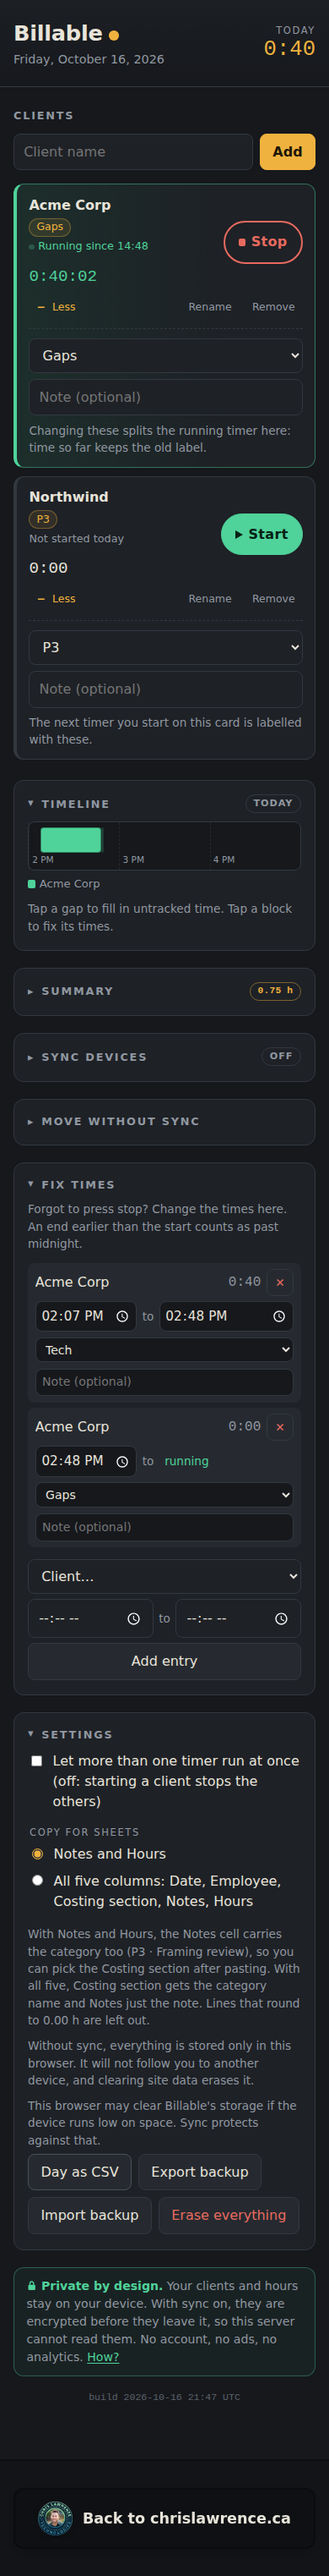
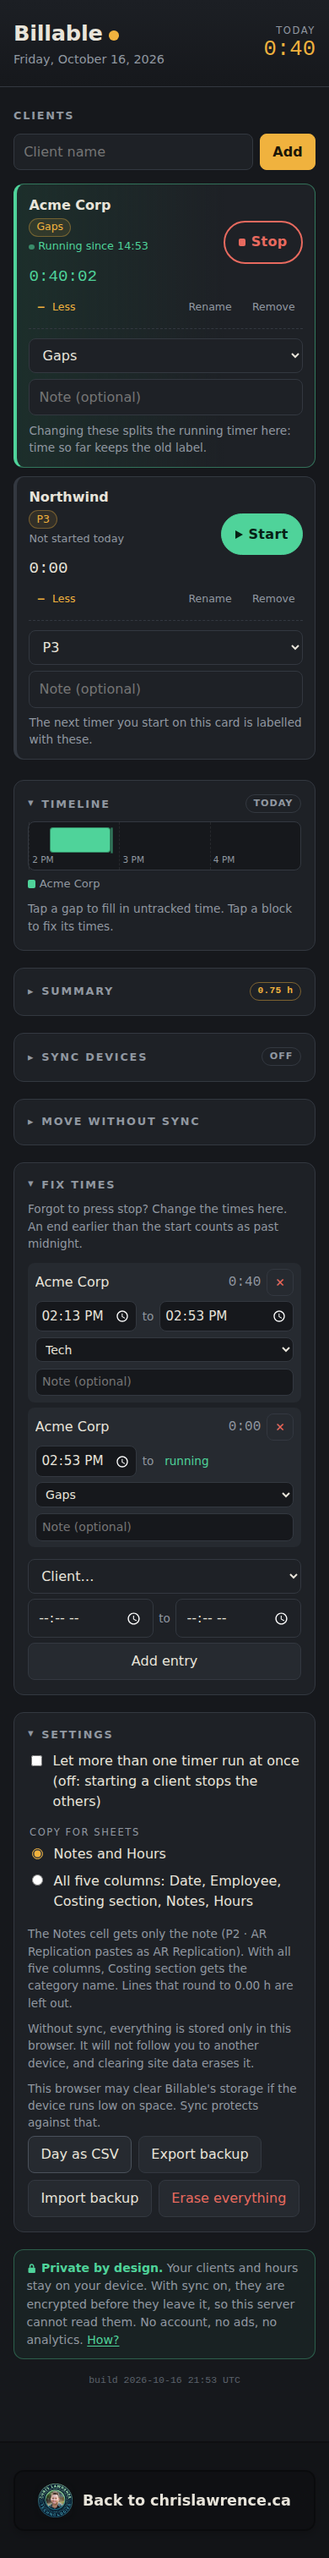
billable: Sheets copy puts only the note in the Notes cell
P2 · AR Replication now pastes as 'AR Replication' with its hours; the
category is chosen in the sheet's Costing section column instead.

diff --git a/src/js/model.js b/src/js/model.js
@@ -271,12 +271,9 @@ export function csvFor(st, key, now) {
 
 // Rows for one client, for pasting into that client's tab of the work Google
 // Sheet: tab-separated, so each value lands in its own column. Lines that
-// round to zero hours are left out.
-//
-// With all five columns, the category has its own Costing section column and
-// Notes is just the note. With Notes and Hours only, Notes carries the
-// category too ("P3 · Framing review"), so the right Costing section can be
-// picked by hand after pasting.
+// round to zero hours are left out. Notes is only the note: the category is
+// either its own Costing section column (all five columns) or picked by hand
+// in the sheet after pasting (Notes and Hours).
 export function sheetRows(st, key, now, clientId) {
   const { sheetLayout, employee } = st.settings;
   const [y, m, d] = key.split("-");
@@ -287,7 +284,7 @@ export function sheetRows(st, key, now, clientId) {
     .filter((l) => l.hours)
     .map((l) => sheetLayout === "all"
       ? [date, employee, categoryLabel(l.category), l.note, fmtHours(l.hours)]
-      : [tagLabel(l.category, l.note), fmtHours(l.hours)]);
+      : [l.note, fmtHours(l.hours)]);
 }
 
 // Sheets treats a pasted cell starting with = + - @ as a formula; a leading

diff --git a/src/index.html b/src/index.html
@@ -195,7 +195,7 @@
       <label class="check"><input type="radio" name="sheet-layout" value="notes-hours"> Notes and Hours</label>
       <label class="check"><input type="radio" name="sheet-layout" value="all"> All five columns: Date, Employee, Costing section, Notes, Hours</label>
       <input id="employee" type="text" maxlength="80" autocomplete="name" placeholder="Your full name, exactly as in the sheet's Employee list" aria-label="Employee name for the sheet">
-      <p class="note">With Notes and Hours, the Notes cell carries the category too (P3 · Framing review), so you can pick the Costing section after pasting. With all five, Costing section gets the category name and Notes just the note. Lines that round to 0.00 h are left out.</p>
+      <p class="note">The Notes cell gets only the note (P2 · AR Replication pastes as AR Replication). With all five columns, Costing section gets the category name. Lines that round to 0.00 h are left out.</p>
     </fieldset>
     <div id="archived-wrap">
       <p class="label">Removed clients</p>

diff --git a/README.md b/README.md
@@ -34,8 +34,8 @@ next one started on that card, are labelled with them.
 - **Copy for Sheets**: each client in the summary has a copy button, because each
   client's hours go on its own tab of the work Google Sheet. It copies that client's
   lines as tab-separated rows, so one paste fills a row per line with each value in its
-  own column. A setting chooses Notes and Hours (Notes then carries the category, such
-  as "P3 · Framing review"), or all five timesheet columns (Date, Employee, Costing
+  own column. Notes gets only the note, never the category. A setting chooses Notes
+  and Hours, or all five timesheet columns (Date, Employee, Costing
   section, Notes, Hours). A tick marks clients already copied, and clears if their time
   changes afterwards. Zero-hour lines are left out, and formula-like cells stay text.
 - **Forgotten timers**: a timer still running from a previous day, or for four hours or
